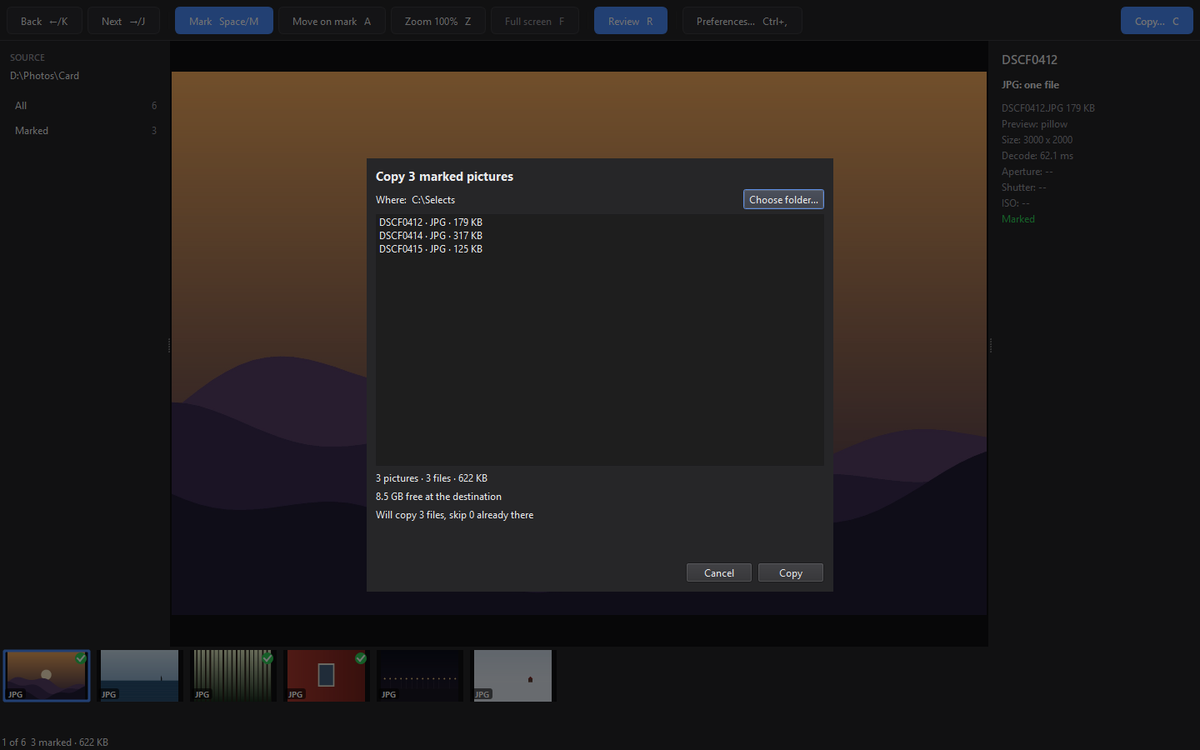
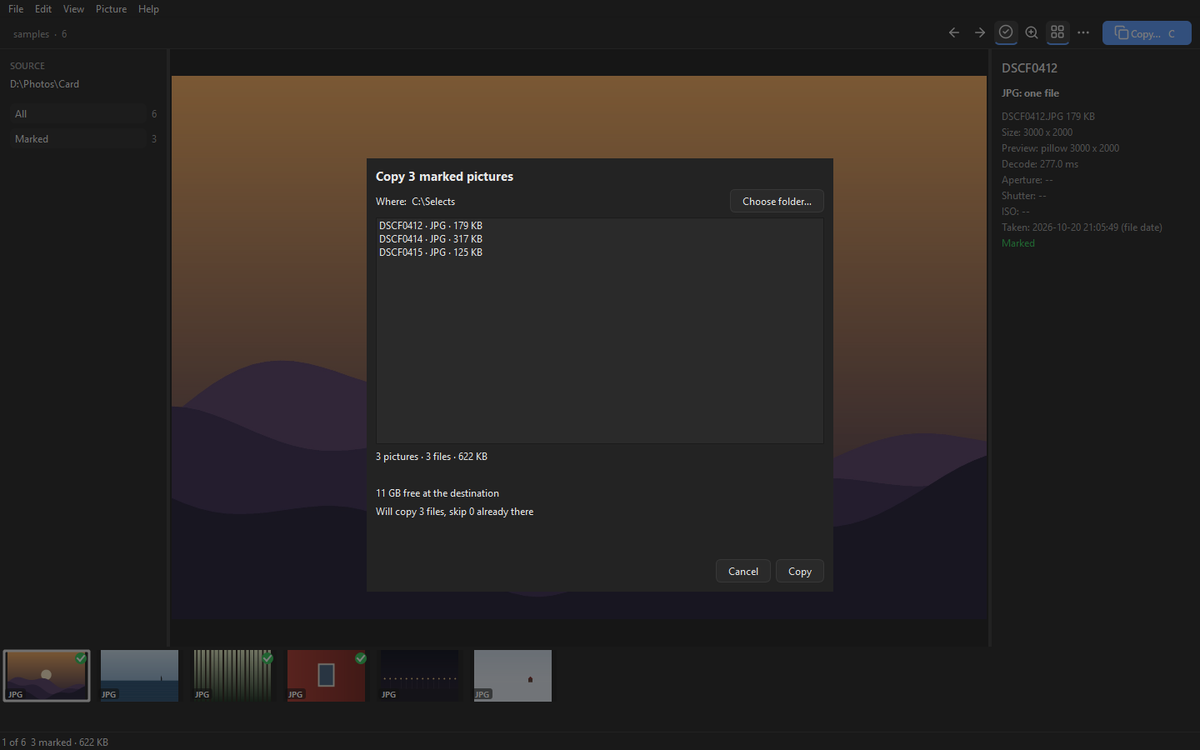
Release 0.11.0: README, version, lock, new-look screenshots
Adds lights-out.png and shortcuts.png to docs/shots.py and the README.

diff --git a/docs/shots.py b/docs/shots.py
@@ -17,7 +17,7 @@ import tempfile
 import time
 from pathlib import Path
 
-SHOTS = ("hero.gif", "workbench.png", "bleed.png", "review.png", "copy.png", "prefs.png",
+SHOTS = ("hero.gif", "workbench.png", "lights-out.png", "shortcuts.png", "bleed.png", "review.png", "copy.png", "prefs.png",
          "compare.png", "peaking.png")
 
 SIZE = (1440, 900)  # the window, for every shot
@@ -153,6 +153,18 @@ def _run(root: Path, out: Path) -> int:
     pal = [f.quantize(palette=shared, dither=Image.Dither.NONE) for f, _ in frames]
     pal[0].save(out / "hero.gif", save_all=True, append_images=pal[1:], duration=[d for _, d in frames],
                 loop=0, optimize=True, disposal=1)
+
+    window.set_lights_out(True)  # the quiet bar gives way to the pill
+    pump(0.6)
+    save_png("lights-out.png", grab())
+    window.set_lights_out(False)
+    pump(0.4)
+
+    window.toggle_shortcuts()  # the ? overlay, over the quiet bar
+    pump(0.6)
+    save_png("shortcuts.png", grab())
+    window.toggle_shortcuts()
+    pump(0.3)
 
     window.set_bleed(True)
     pump(0.3)

diff --git a/README.md b/README.md
@@ -12,7 +12,7 @@
 <p align="center">
   <a href="https://github.com/fungimasters/Spuza/actions/workflows/ci.yml"><img src="https://github.com/fungimasters/Spuza/actions/workflows/ci.yml/badge.svg" alt="CI"></a>
   <a href="https://github.com/fungimasters/Spuza/releases/latest"><img src="https://img.shields.io/github/v/release/fungimasters/Spuza?label=release" alt="Latest release"></a>
-  <img src="https://img.shields.io/badge/version-0.10.0-informational" alt="Version 0.10.0">
+  <img src="https://img.shields.io/badge/version-0.11.0-informational" alt="Version 0.11.0">
 </p>
 
 **Mac** (Apple Silicon), in Terminal:
@@ -44,6 +44,7 @@ Update with `uv tool upgrade spuza`. There is also a [Mac app](#mac-app) on the 
 
 ## What's new
 
+- **0.11.0**: Eighth round: a quieter, darker Spuza. Spuza is dark by default on Windows and Linux; on a Mac it follows the system's light or dark appearance until you pick one. `Ctrl+T` (or View, Dark theme) flips it, and the pick is remembered. The bar above the picture is quieter: icon buttons for Back, Next, Mark, Zoom and Review, a filled Copy button, and a `⋯` menu holding Move on mark, Full screen, Preferences, Lights out and the advanced tools. Hover a button for its name and key. `Tab` is Lights out: the bar, sidebar, inspector, filmstrip and status line hide, and a small pill floats over the picture with the mark, `n / N`, `keys ?` and Copy. It is remembered between runs, and `F` full screen stays independent of it. There is now a menu bar (File, Edit, View, Picture, Help) that lists every action with its key, `?` opens a keyboard shortcut overlay, and `Ctrl+Q` quits. The keys and features are otherwise the same.
 - **0.10.0**: Seventh feedback round. A crop or a story fit is now a picture of its own on the filmstrip. `Enter` in a crop (`X`) or a story fit (`S`) adds a new picture right after the original, with its own thumbnail and a tag (the ratio, `crop` for Free, an outlined `9:16` for a story). The original is not touched, so `X` on it again cuts another crop: one original, any number of crops and story fits. A crop picture can be viewed, zoomed, marked and stepped through like any other, and `Backspace` removes it. Mark all counts them. Copy writes each marked one to `ed`. A session from 0.9.0 turns its crops and story fits into these pictures.
 
 - **0.9.0**: Sixth feedback round. Crop (`X`) has a ratio strip above the picture. `1` to `8` pick Free, Original, 1:1, 4:5, 3:4, 2:3, 9:16 or 1.91:1, `V` turns the ratio (4:5 becomes 5:4) and `0` resets the rectangle. A locked ratio has four corner handles and a label with the ratio and pixels. The copy names the file after the ratio, `<name>_4x5.jpg`. A picture can now have a crop and a story fit together. The inspector shows the crop in pixels, and the filmstrip tag shows the ratio.
@@ -76,7 +77,7 @@ Spuza is built for the first pass over a shoot: hundreds of frames and a handful
 4. **Review.** `R` puts every marked picture on one contact sheet for a second look.
 5. **Copy.** `C` copies the marked pictures to a folder, sorted into `raw`, `soc` and `ed`. Then Spuza can eject the card and quit.
 
-With two cards in (a camera with two slots, say), Spuza lists both and opens the first. The status bar names the other and how many of its pictures are copies of this card's. `spuza --card 2` opens the second.
+With two cards in (a camera with two slots, say), Spuza lists both and opens the first. The status line names the other and how many of its pictures are copies of this card's. `spuza --card 2` opens the second.
 
 <p align="center">
   <img src="docs/img/workbench.png" alt="The workbench: the picture, the filmstrip, the inspector and the marked count" width="900">
@@ -96,12 +97,20 @@ Right-click a picture in the filmstrip, the viewer or the review to show it in F
 **Marks never touch your files.** Spuza never writes to a picture, its EXIF or the card. It writes only four things: the copies you ask for (and the `raw`, `soc` and `ed` folders they go in), a log of each copy in its own app-data folder (never in your destination), its own preferences, and, with Resume in advanced mode, a small session file in its app-data folder.
 
 <p align="center">
+  <img src="docs/img/lights-out.png" alt="Lights out: the picture with a small pill showing the mark, the position and Copy" width="900">
+</p>
+
+<p align="center">
+  <img src="docs/img/shortcuts.png" alt="The ? overlay: every key, grouped by task" width="900">
+</p>
+
+<p align="center">
   <img src="docs/img/bleed.png" alt="Full screen: the picture alone, with a one-line status strip" width="900">
 </p>
 
 ## Keys
 
-Every key in one table. Most also have a toolbar button with the shortcut printed on it. Mark all, Unmark all, undo and the two turns (`[` `]`) are keys only, to keep the toolbar on one row.
+Every key in one table. The bar above the picture has icon buttons for the common ones (hover a button for its name and key), and the menu bar (File, Edit, View, Picture, Help) lists every action with its key. Mark all, Unmark all, undo and the two turns (`[` `]`) are keys only. `?` shows the same list over the picture.
 
 | Key | Where | Does |
 |---|---|---|
@@ -218,7 +227,7 @@ Other rules:
 
 ## Preferences
 
-`Cmd-,` (`Ctrl-,` on Windows) or the toolbar button opens Preferences:
+`Cmd-,` (`Ctrl-,` on Windows) or Preferences in the `⋯` menu opens it:
 
 - **Pictures ready ahead** (1-64, default 12) and **Pictures kept behind** (0-64, default 8). The memory those previews take is shown under the rows.
 - **Copy into raw / soc / ed folders**, **Eject the card after copying**, **Quit Spuza after copying** and **Write rotation to copies (EXIF)** (all default on): see [Copying](#copying).
